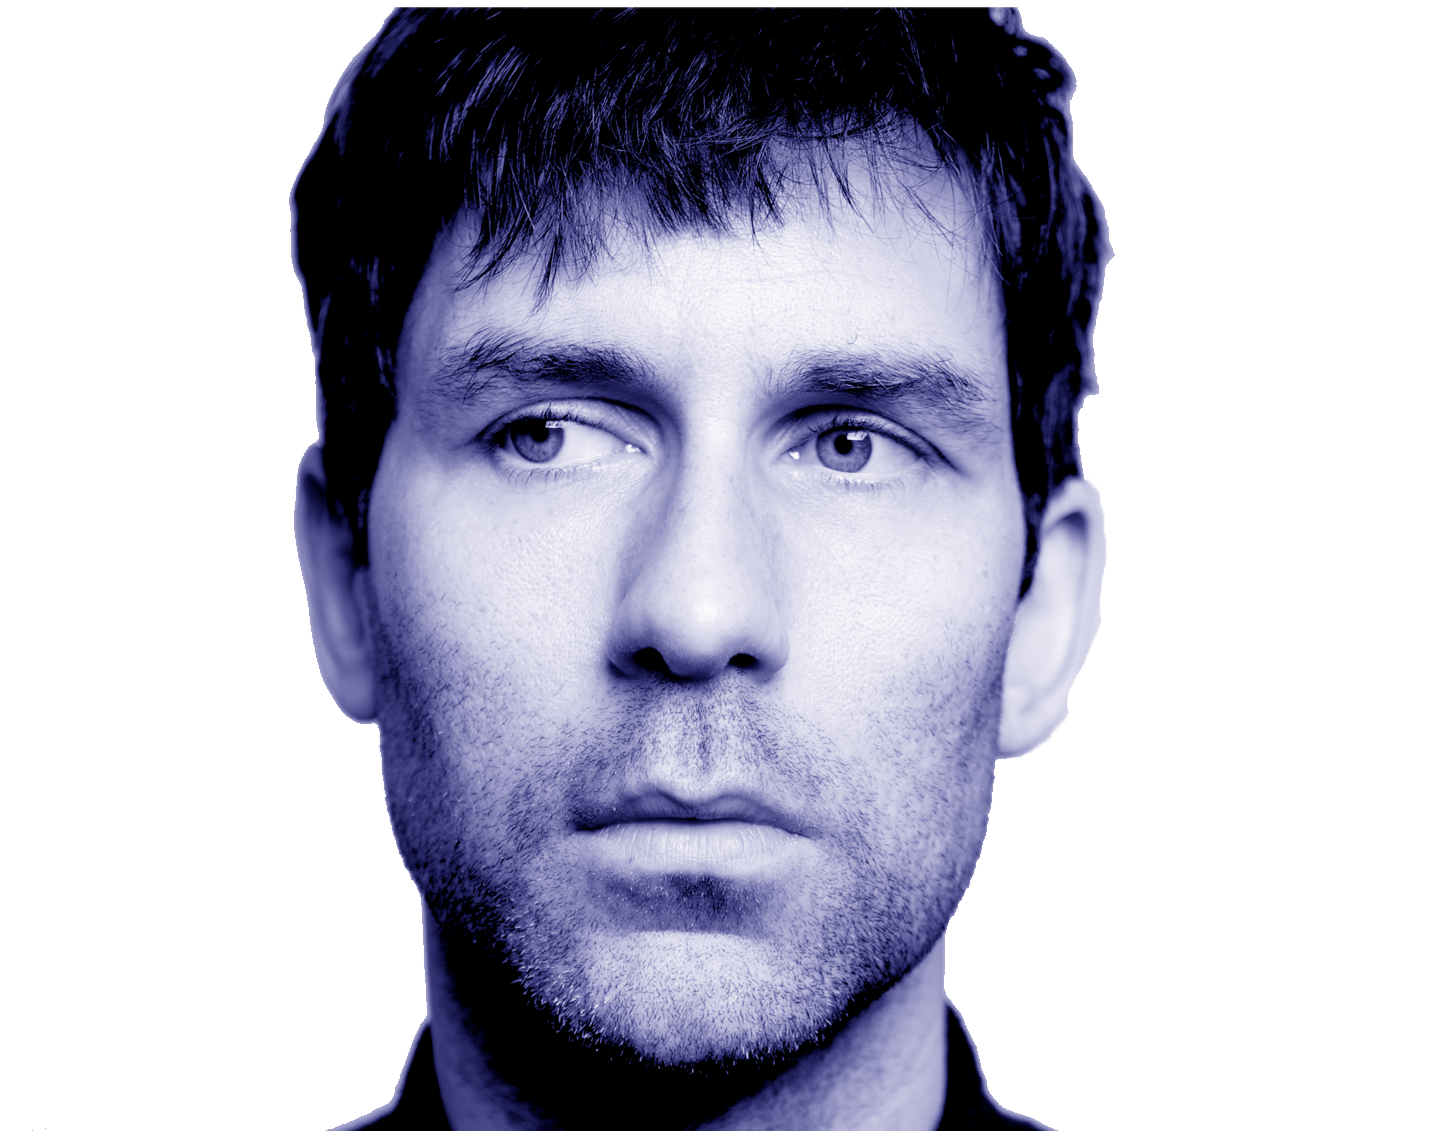
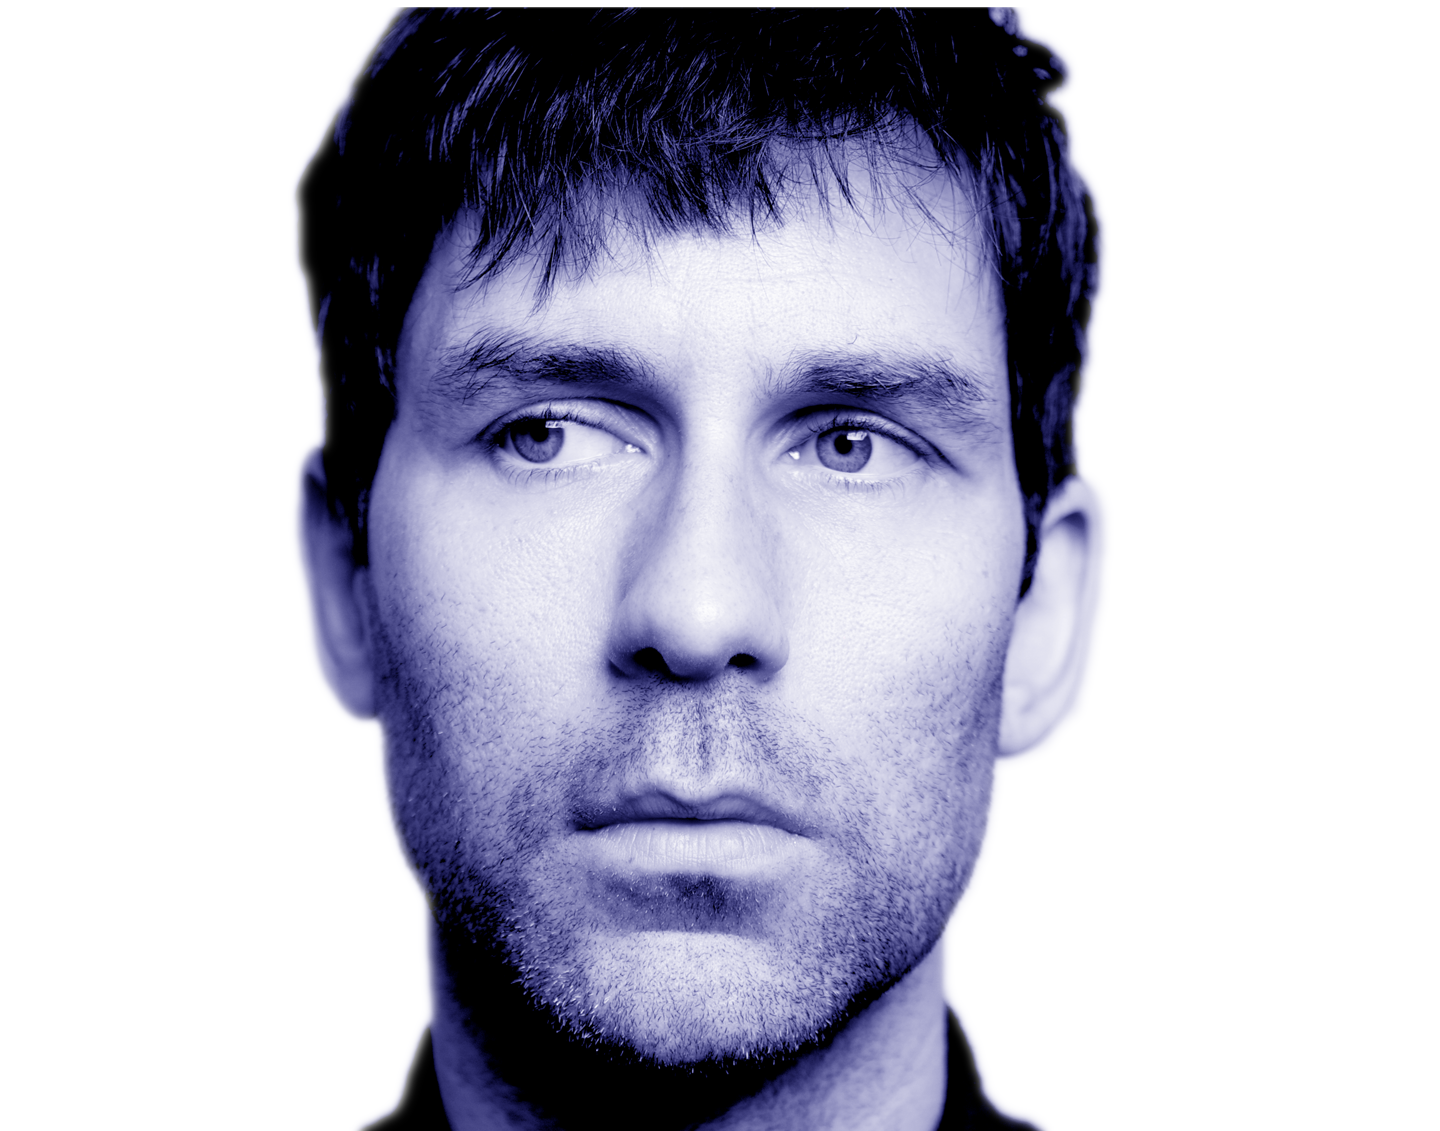
add images with no background;

diff --git a/3dface/face_mult.html b/3dface/face_mult.html
@@ -86,9 +86,9 @@
         <div class="stripe">
             <div id="container">
                 <h1 class="stripe">JAMIE LIDELL</h1>
-                <img src="red_whitebg_s.png" alt="red_source" id="redImg">
-                <img src="blue_whitebg_s.png" alt="blue_source" id="blueImg">
-                <img src="yellow_whitebg_s.png" alt="yellow_source" id="yellowImg">
+                <img src="red_no_bg_s.png" alt="red_source" id="redImg">
+                <img src="blue_no_bg_s.png" alt="blue_source" id="blueImg">
+                <img src="yellow_no_bg_s.png" alt="yellow_source" id="yellowImg">
             </div>
         </div>
 
